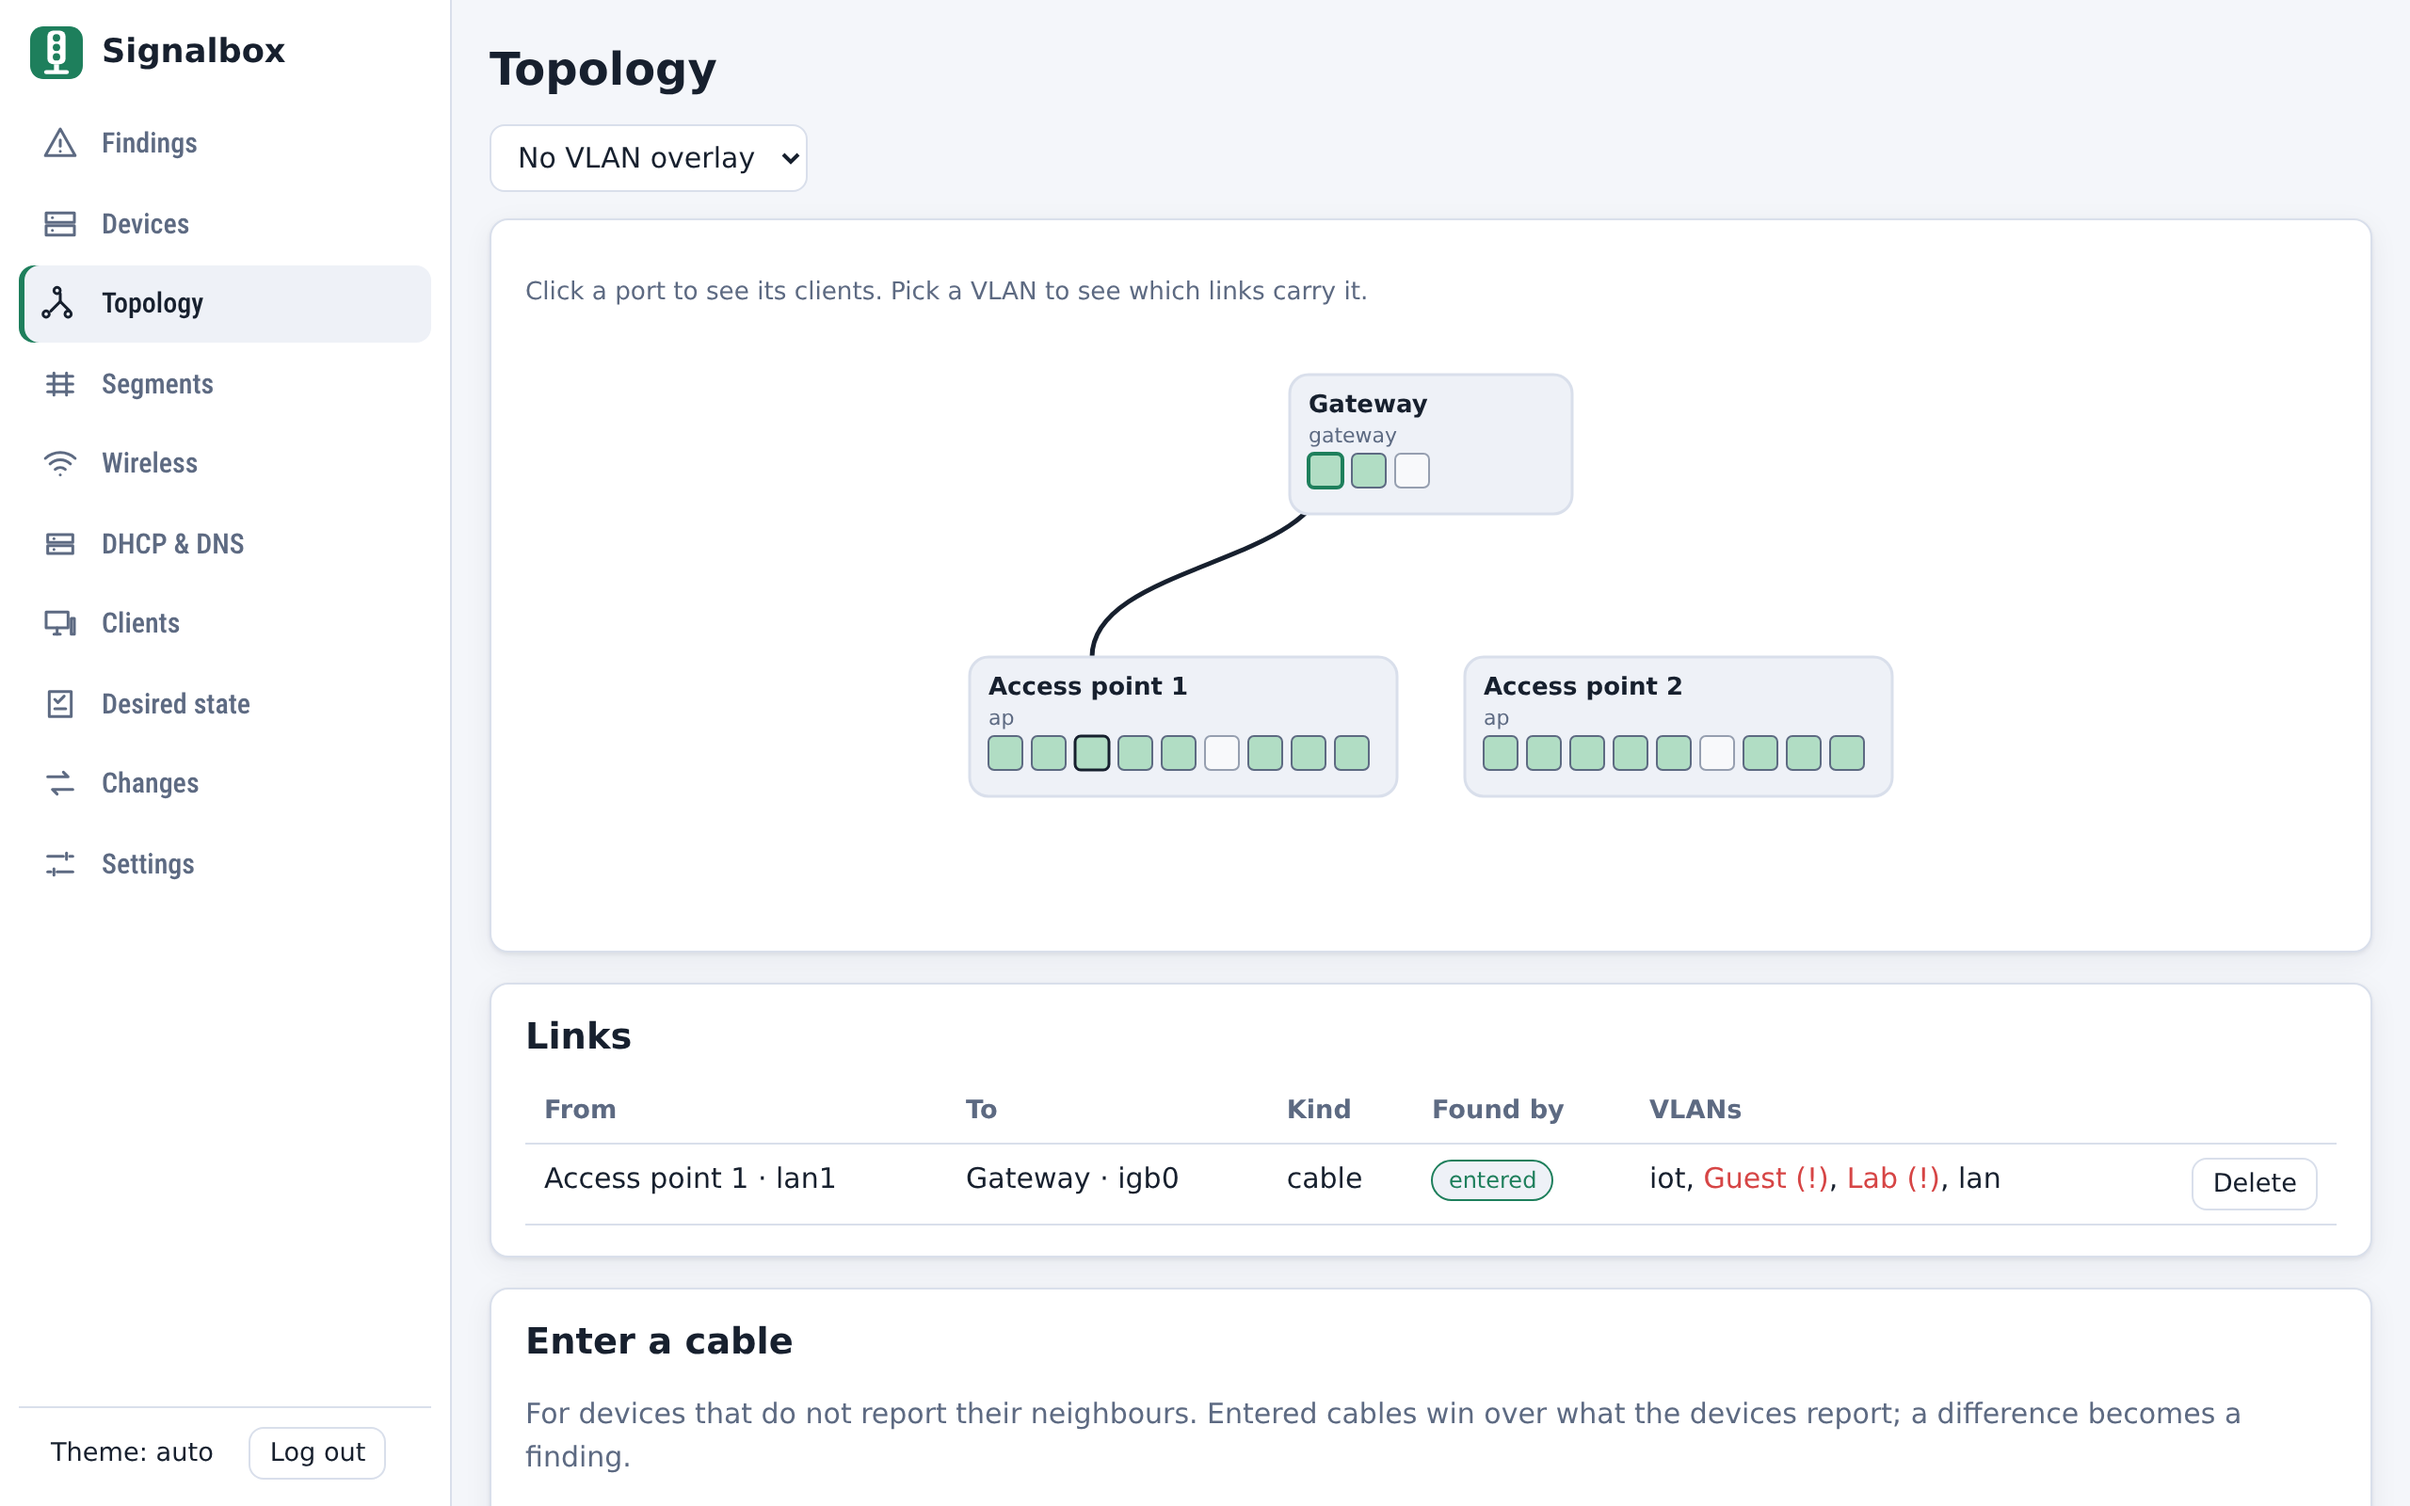
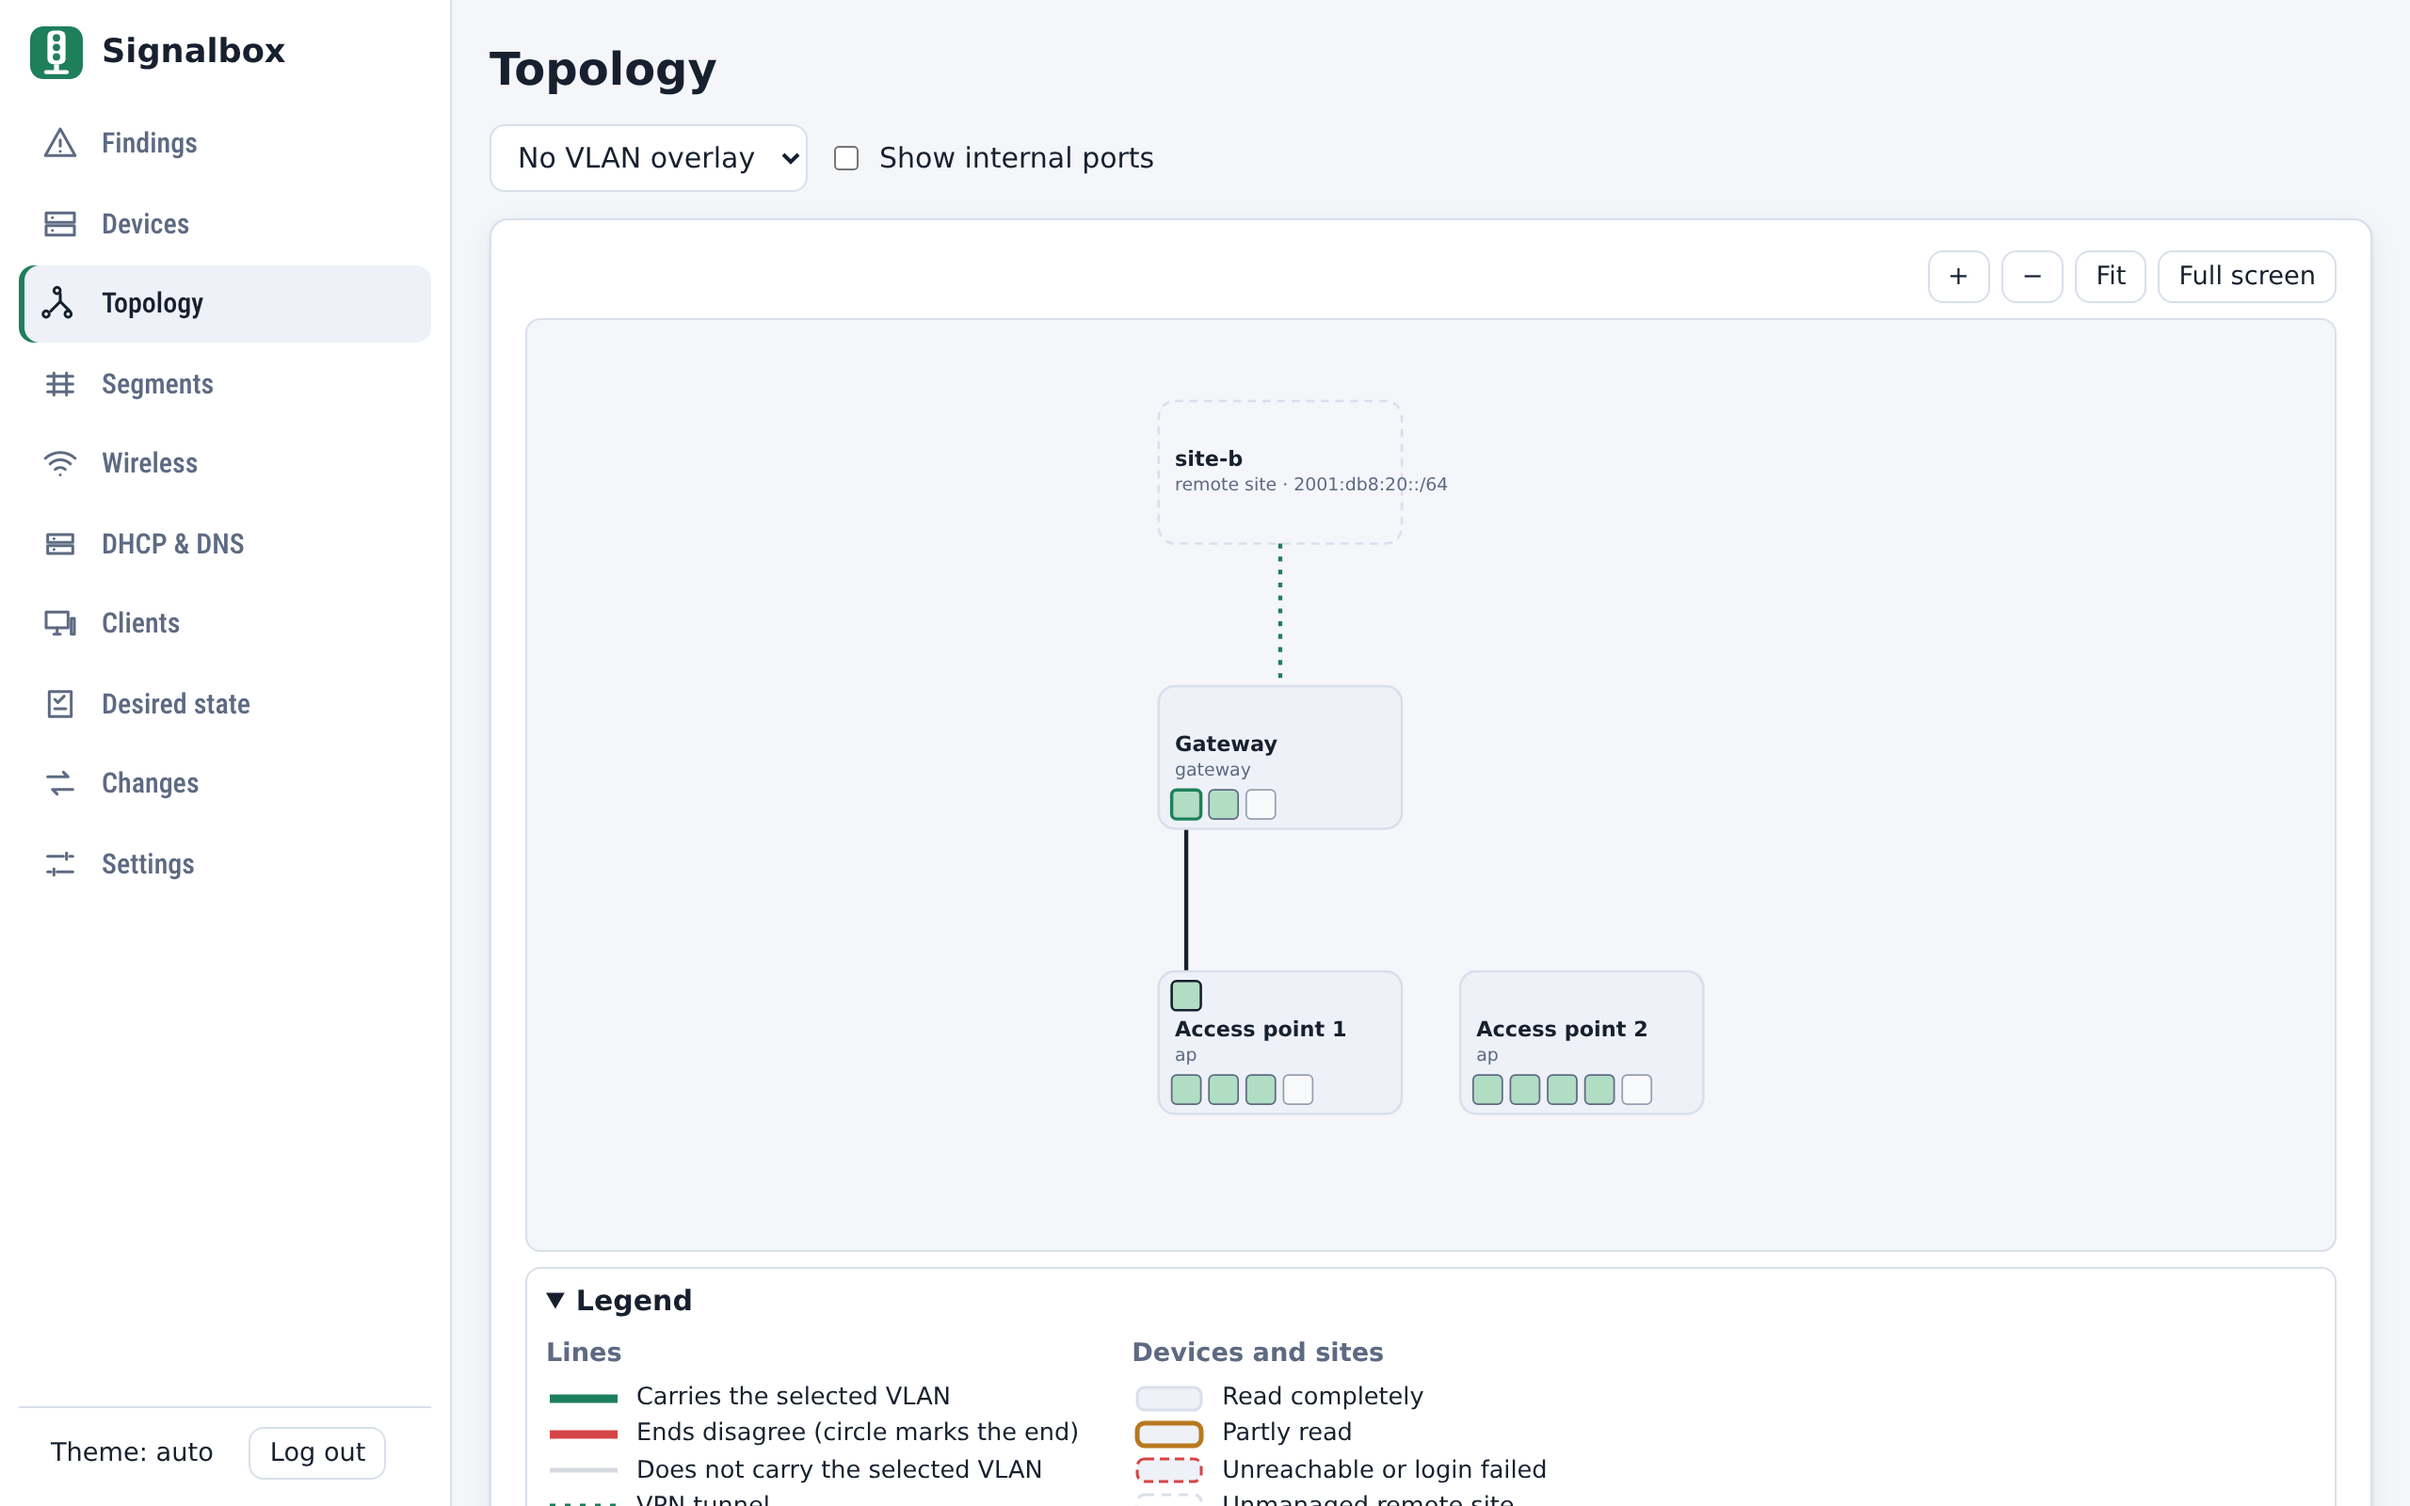
Topology diagram: layered layout, port-ended wires, legend, zoom, full screen (#303)
- Layers by role and uplink direction, barycentre sweeps, bundled parallel cables with count badge, sites as groups
- Wires end at the port squares; ports facing up sit in a top strip
- Collapsible legend, device name links, hover highlight, zoom/pan/pinch, full-screen with overlay fallback
- Layout unit tests (node), e2e tests, English and German texts, new screenshots

diff --git a/src/signalbox/web/static/views/topology.js b/src/signalbox/web/static/views/topology.js
@@ -207,13 +207,13 @@ function drawGraph(data, nodes, onPort, siteNames) {
     const g = s('g', { class: `node role-${n.role} status-${n.status}`, 'data-testid': 'topo-node', 'data-id': n.id });
     els.set(n.id, g);
     place(g, s('rect', { x: String(x), y: String(y), width: String(w), height: String(BOX_H), rx: '10', class: 'box' }));
-    const label = s('text', { x: String(x + 10), y: String(y + 44), class: 'name' }, n.name);
+    const label = s('text', { x: String(x + 10), y: String(y + 40), class: 'name' }, n.name);
     if (n.role === 'remote') place(g, label);
     else place(g, s('a', { href: `#/device/${enc(n.id)}`, class: 'name-link', 'data-testid': 'topo-device-link', 'aria-label': t('topology.openDevice', { device: n.name }) }, label));
     const roleName = ROLE[n.role] ? t(ROLE[n.role]) : n.role;
     const hidden = shownPorts(n).length - ports.get(n.id).length;
     const roleText = n.role === 'remote' ? t('topology.remoteSite', { networks: n.networks.join(', ') || t('topology.noNetworks') }) : `${roleName}${hidden > 0 ? t('topology.morePorts', { count: hidden }) : ''}`;
-    place(g, s('text', { x: String(x + 10), y: String(y + 60), class: 'role' }, roleText));
+    place(g, s('text', { x: String(x + 10), y: String(y + 55), class: 'role' }, roleText));
     for (const p of ports.get(n.id)) {
       const spot = spots.get(p.id);
       const member = state.segment && (p.untagged.includes(state.segment) ? 'untagged' : p.tagged.includes(state.segment) ? 'tagged' : null);
@@ -514,7 +514,7 @@ export async function renderTopology(main, ctx) {
     button(t('topology.zoomReset'), 'topo-zoom-reset', () => zoom && zoom.fit()),
     fullBtn,
   );
-  place(card_, tools, legendBlock(), graphBox, h('p', { class: 'phone-only muted small' }, t('topology.phoneNote')), panel);
+  place(card_, tools, graphBox, legendBlock(), h('p', { class: 'phone-only muted small' }, t('topology.phoneNote')), panel);
   const hasInternal = data.nodes.some((n) => n.ports.some((p) => p.external === false));
   const problems = data.nodes.filter((n) => n.status !== 'ok');
   place(main, 

diff --git a/src/signalbox/web/static/style.css b/src/signalbox/web/static/style.css
@@ -227,12 +227,12 @@ svg.topo { display: block; font-family: var(--font); }
 .topo.hovering .node, .topo.hovering .edge { opacity: .3; }
 .topo.hovering .node.hot, .topo.hovering .node.near, .topo.hovering .edge.hot { opacity: 1; }
 .topo.hovering .edge.hot { stroke: var(--accent); stroke-width: 4; }
-.topo-legend { margin-bottom: 8px; border: 1px solid var(--border); border-radius: 8px; padding: 6px 10px; }
+.topo-legend { margin-top: 8px; border: 1px solid var(--border); border-radius: 8px; padding: 6px 10px; }
 .topo-legend summary { cursor: pointer; font-weight: 700; }
 .topo-legend .legend-body { display: flex; flex-wrap: wrap; gap: 6px 28px; margin-top: 6px; }
 .topo-legend h4 { margin: 0 0 4px; font-size: .85rem; color: var(--muted); }
 .topo-legend ul { list-style: none; margin: 0; padding: 0; }
-.topo-legend li { display: flex; align-items: center; gap: 8px; font-size: .85rem; line-height: 1.7; }
+.topo-legend li { display: flex; align-items: center; gap: 8px; font-size: .8rem; line-height: 1.5; }
 .topo-legend svg.key-svg { flex: none; }
 .topo-legend p { margin: 6px 0 0; }
 .legend .key { display: inline-block; width: 22px; height: 4px; vertical-align: middle; border-radius: 2px; margin-left: 6px; }

diff --git a/tests/e2e/test_topology_ui.py b/tests/e2e/test_topology_ui.py
@@ -42,7 +42,12 @@ def test_legend_is_visible_and_collapsible(app: Any) -> None:
     setup(app)
     legend = app.get_by_test_id("topo-legend")
     expect(legend).to_be_visible()
-    for text in ("Carries the selected VLAN", "Ends disagree", "VPN tunnel", "Inferred from the MAC table"):
+    for text in (
+        "Carries the selected VLAN",
+        "Ends disagree",
+        "VPN tunnel",
+        "Inferred from the MAC table",
+    ):
         expect(legend).to_contain_text(text)
     for text in ("Partly read", "Unmanaged remote site", "Internal port"):
         expect(legend).to_contain_text(text)
@@ -55,7 +60,9 @@ def test_legend_is_visible_and_collapsible(app: Any) -> None:
 
 def test_device_name_opens_the_device_page(app: Any) -> None:
     setup(app)
-    app.locator('[data-testid="topo-node"][data-id="router"] [data-testid="topo-device-link"]').click()
+    app.locator(
+        '[data-testid="topo-node"][data-id="router"] [data-testid="topo-device-link"]'
+    ).click()
     expect(app).to_have_url(re.compile(r"#/device/router$"))
     expect(app.locator("main h1").first).to_contain_text("Router")
 
@@ -87,7 +94,9 @@ def test_hover_highlights_links_and_neighbours(app: Any) -> None:
     app.locator('[data-testid="topo-node"][data-id="router"] .box').hover()
     expect(svg).to_have_class(re.compile("hovering"))
     expect(app.get_by_test_id("topo-edge")).to_have_class(re.compile("hot"))
-    expect(app.locator('[data-testid="topo-node"][data-id="core-switch"]')).to_have_class(re.compile("near"))
+    expect(app.locator('[data-testid="topo-node"][data-id="core-switch"]')).to_have_class(
+        re.compile("near")
+    )
     app.mouse.move(2, 2)
     expect(svg).not_to_have_class(re.compile("hovering"))
 

diff --git a/tests/test_topology_layout.py b/tests/test_topology_layout.py
@@ -9,6 +9,7 @@ import json
 import shutil
 import subprocess
 import time
+from itertools import pairwise
 from pathlib import Path
 from typing import Any
 
@@ -109,7 +110,7 @@ def test_devices_of_a_layer_do_not_overlap() -> None:
         by_row.setdefault(y, []).append([x, w])
     for row in by_row.values():
         row.sort()
-        for (x1, w1), (x2, _w2) in zip(row, row[1:], strict=False):
+        for (x1, w1), (x2, _w2) in pairwise(row):
             assert x1 + w1 <= x2
 
 
@@ -119,7 +120,9 @@ def test_big_network_is_fast() -> None:
     nodes += [dev(f"sw{i}", f"Switch {i:02d}", "switch") for i in range(8)]
     nodes += [dev(f"ap{i}", f"AP {i:02d}", "ap") for i in range(41)]
     edges = [cable("gw", f"sw{i}") for i in range(8)]
-    edges += [cable(f"sw{i}", f"sw{(i * 3 + 1) % 8}", n=i) for i in range(8) if (i * 3 + 1) % 8 != i]
+    edges += [
+        cable(f"sw{i}", f"sw{(i * 3 + 1) % 8}", n=i) for i in range(8) if (i * 3 + 1) % 8 != i
+    ]
     n = 0
     for i in range(41):
         for k in range(1 + i % 5):  # up to five cables or radios per AP

diff --git a/tools/screenshots.py b/tools/screenshots.py
@@ -71,6 +71,7 @@ def main() -> None:
                     page.evaluate("localStorage.setItem('theme', 'dark')")
                     page.reload()
                     shoot(page, base, "findings-dark", "#/")
+                    shoot(page, base, "topology-dark", "#/topology")
                     page.evaluate("localStorage.removeItem('theme')")
                     phone = browser.new_page(**p.devices["Pixel 7"])
                     login(phone, base)

diff --git a/docs/screenshots.md b/docs/screenshots.md
@@ -9,4 +9,4 @@ Taken from `signalbox demo` (a simulated OPNsense gateway and two OpenWrt access
 | ![Devices](screenshots/devices.png) Devices with their status | ![Topology](screenshots/topology.png) Topology: cables, ports, VLANs per link |
 | ![Wireless](screenshots/wireless.png) Wi-Fi: SSIDs across access points | ![Segments](screenshots/segments.png) Segments (VLANs) and their ports |
 | ![Phone, findings](screenshots/phone-findings.png) Findings on a phone | ![Phone, devices](screenshots/phone-devices.png) Devices on a phone |
-| ![Phone, menu](screenshots/phone-menu.png) The menu drawer on a phone | |
+| ![Phone, menu](screenshots/phone-menu.png) The menu drawer on a phone | ![Topology, dark](screenshots/topology-dark.png) Topology in dark mode, with the legend |
